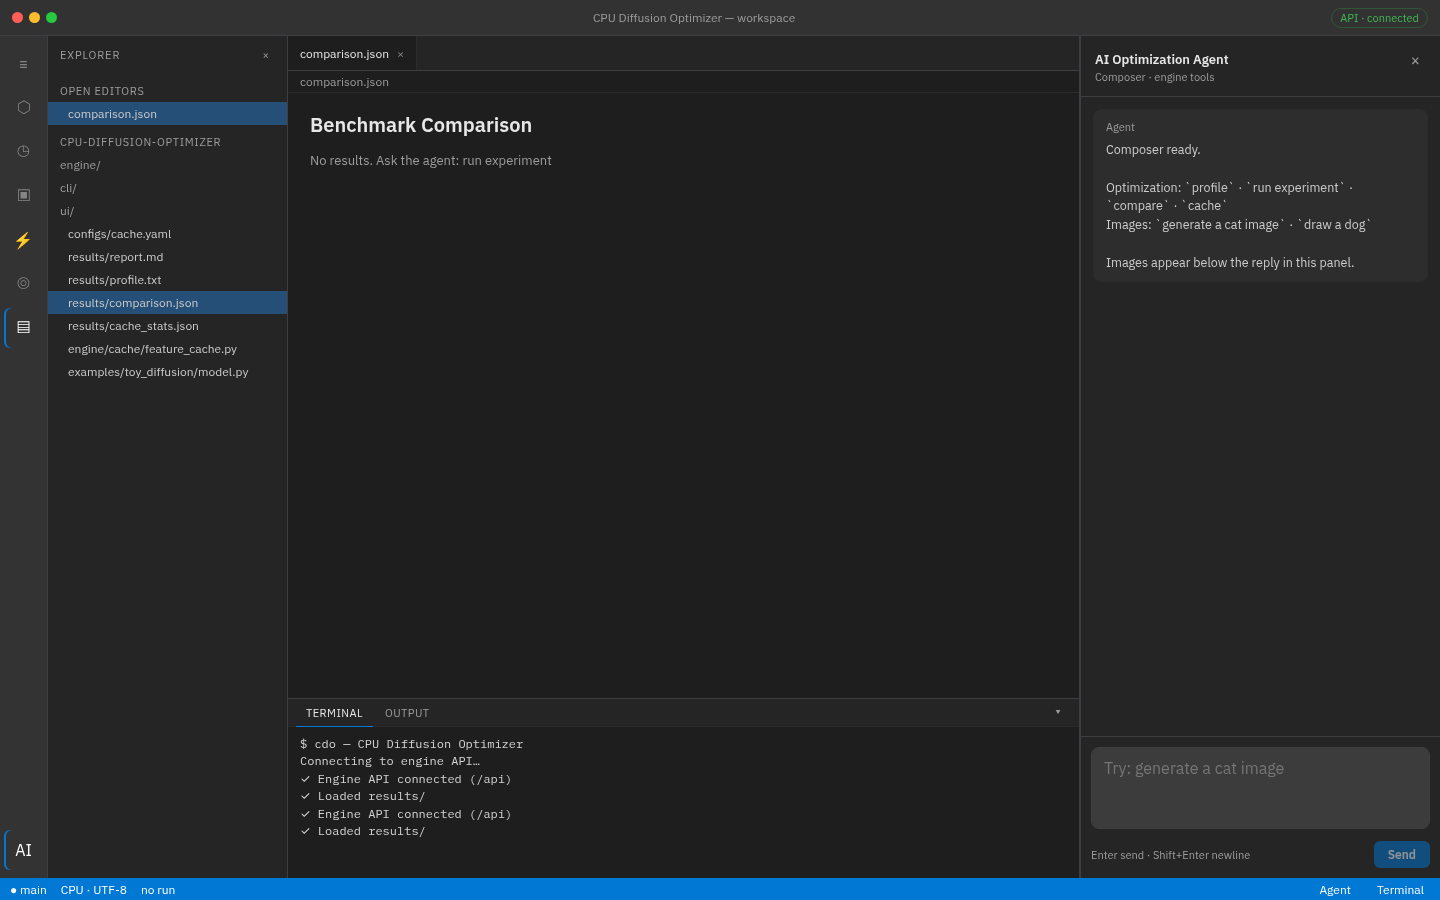
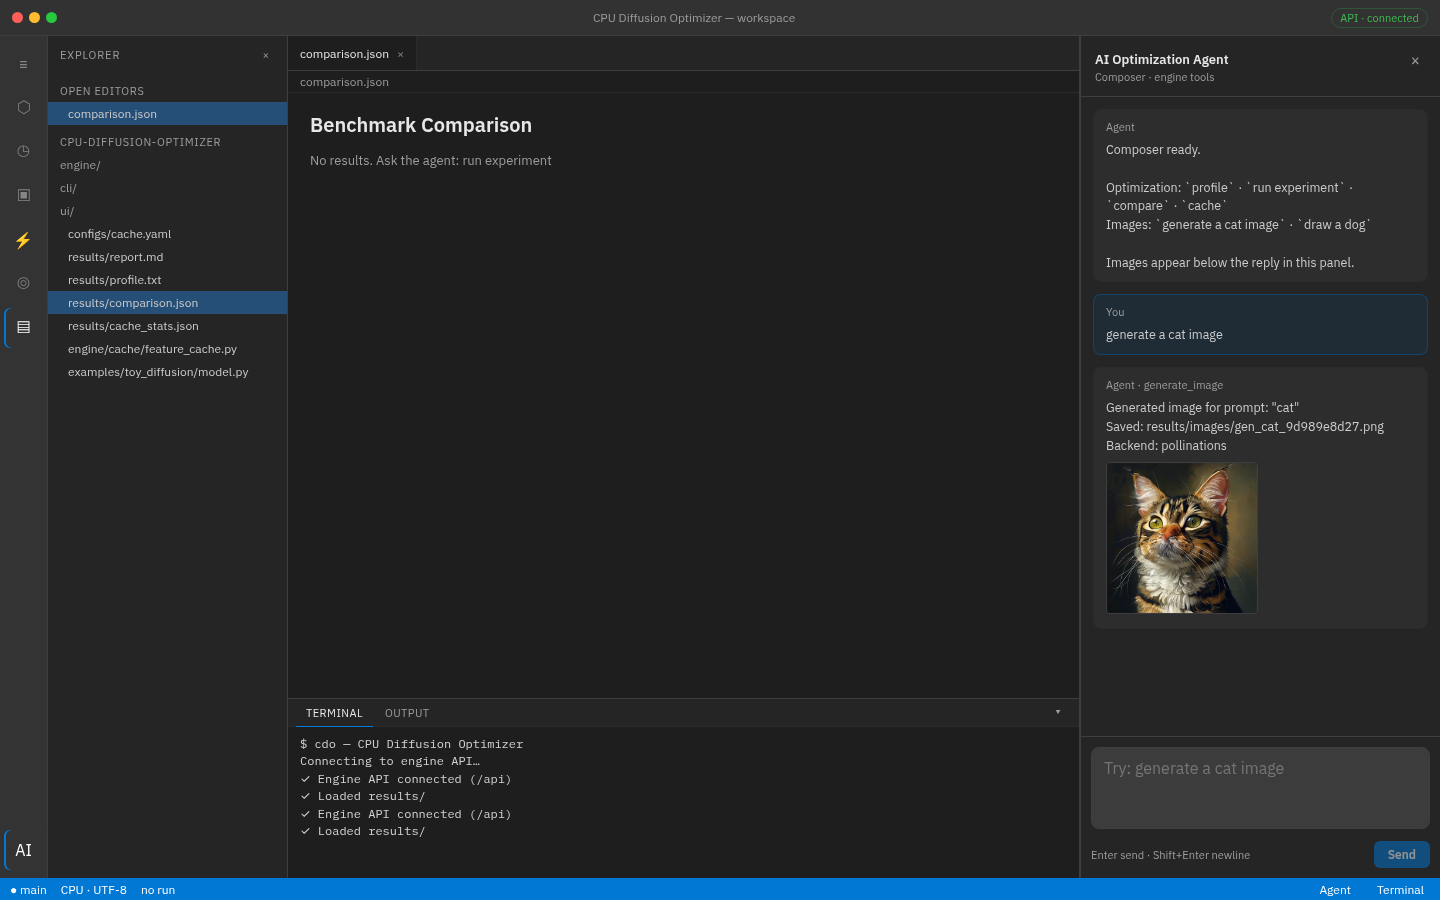
Update UI screenshot to show generated image in agent panel.

Changed region(s): [[0.75, 0.3733, 0.9688, 0.6844], [0.75, 0.3422, 0.7812, 0.3733]]

diff --git a/README.md b/README.md
@@ -8,7 +8,7 @@ CPU-first engine for analyzing, profiling, and optimizing **diffusion-model infe
 
 ![CPU Diffusion Optimizer UI](docs/screenshots/ui.png)
 
-Cursor-like workspace: explorer, benchmark view, terminal, and the **AI Optimization Agent**.
+Cursor-like workspace with the **AI Optimization Agent** generating an image (`generate a cat image`) shown inline in the composer panel.
 
 ### Sample outputs
 
